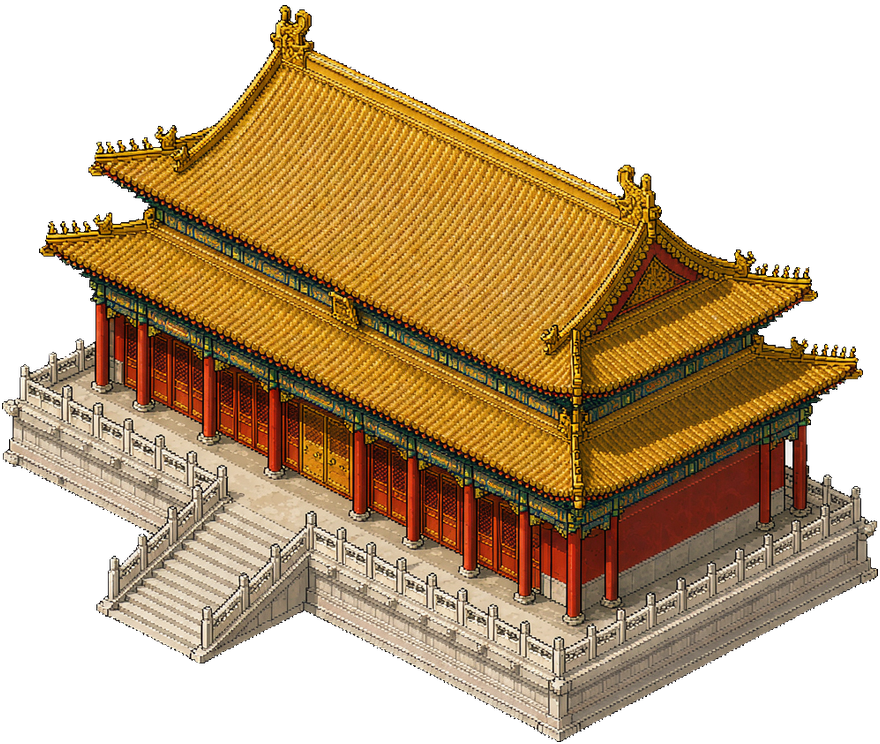
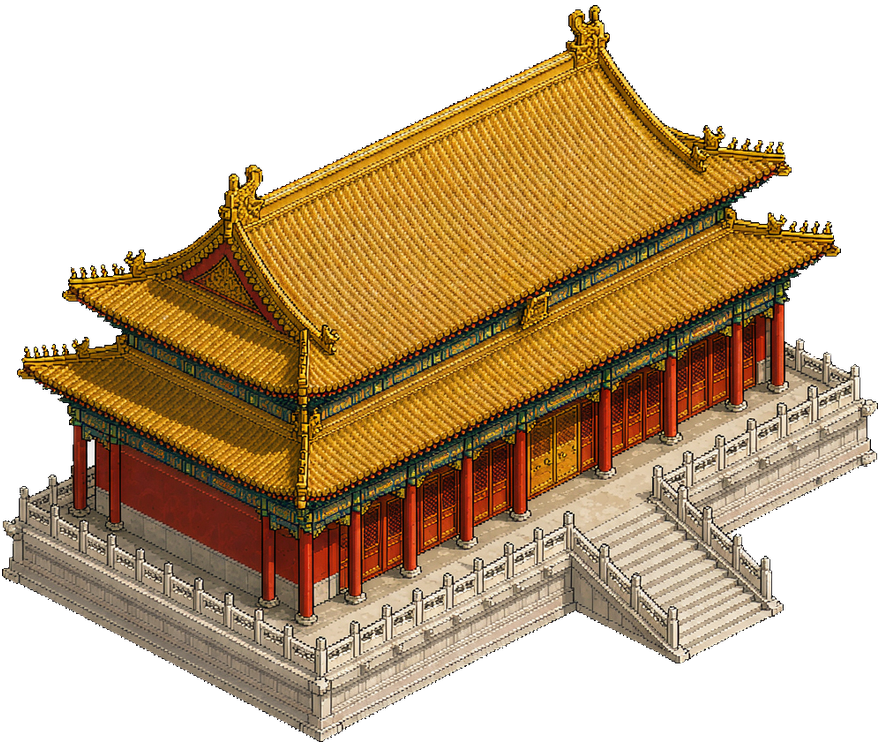
feat(art): 全城建筑正面换向 SW→SE（参考 AI 样例视角）
- 原位镜像：gate_keep / palace_hall / palace_hall_s / palace_gate /
  palace_corner / pagoda / gate_arch / city_wall_corner（正面朝右下）
- 镜像+u/v互换：city_wall 与 palace_wall 的 u2<->v2、u6<->v6
  （水平镜像把 v 向线段变为 u 向，锚点 ax 取反自动吻合）
- iso.ts 锚点同步：gate_keep ax 45->-45、palace_gate 32->-32、pagoda ±0.5
- 新增工具 assets_src/tools/modv2/flip_facing.py（--dry 支持）
- 回归 75/75、build 通过、_diag_restyle 全部玩法点 OK

diff --git a/shanhai/src/core/iso.ts b/shanhai/src/core/iso.ts
@@ -206,17 +206,17 @@ export const ISO_ANCHOR_OFFSET: Record<string, { ax: number; ay: number }> = {
   // 7×7 鼓楼：anchor_px [229,602] - (spriteW/2, spriteH) = (0, -4)，画布底比足迹前底顶点低 4px
   bell_tower: { ax: 0, ay: -4 },
   // —— 宫城族（palace.py 烘焙，ax = anchor_px.x - spriteW/2, ay = anchor_px.y - spriteH）——
-  palace_hall: { ax: 0, ay: -2 },         // 880×551, anchor [440,549]（故宫太和殿版 10×10）
+  palace_hall: { ax: 0, ay: -2 },         // 880×744, anchor [440,742]（故宫太和殿版 10×10）
   palace_hall_s: { ax: 0, ay: -19 },      // 324×453, anchor [162,434]
-  palace_gate: { ax: 32, ay: -5 },        // 206×426, anchor [135,421]
+  palace_gate: { ax: -32, ay: -5 },       // 206×426, anchor [71,421]
   palace_corner: { ax: 0, ay: -5 },       // 142×422, anchor [71,417]
   palace_wall_u6: { ax: 64, ay: -5 },     // 256×275, anchor [192,270]
   palace_wall_u2: { ax: 0, ay: -5 },      // 128×211, anchor [64,206]
   palace_wall_v2: { ax: 0, ay: -5 },      // 128×211, anchor [64,206]
   palace_wall_v6: { ax: -64, ay: -5 },    // 256×275, anchor [64,270]
-  pagoda: { ax: -0.5, ay: -21 },          // 267×756, anchor [133,735]
-  // 城台门楼（AI 素材 296×330）：城台底点偏 bbox 中心右侧 45px（6×3 菱形底点 (w-h)/2*32=48px 减 3px 余量）
-  gate_keep: { ax: 45, ay: -2 },          // anchor_px [193,328]
+  pagoda: { ax: 0.5, ay: -21 },           // 267×756, anchor [134,735]
+  // 城台门楼（AI 素材 296×330，正面朝右下/SE）：城台底点偏 bbox 中心左侧 45px
+  gate_keep: { ax: -45, ay: -2 },         // anchor_px [103,328]
 };
 
 export function isoSize(item: IsoItem): { w: number; h: number } {

diff --git a/shanhai/assets_src/tools/modv2/flip_facing.py b/shanhai/assets_src/tools/modv2/flip_facing.py
@@ -1,0 +1,104 @@
+# -*- coding: utf-8 -*-
+"""全城素材正面换向：SW（朝左下）→ SE（朝右下）。
+
+用户决策（2026-11-13）：参考 palace_hall_compare.png 右侧 AI 样例的视角，
+map_01 全部重建素材正面统一朝右下（SE）。
+
+原理：
+- 渲染层按文件名取图、无运行时翻转 → 翻转贴图本身即可换向；
+- Image.transpose(FLIP_LEFT_RIGHT) 无损，不重采样；
+- 水平镜像把「v 向线段」几何变成「u 向线段」，因此线段类贴图
+  镜像后 u/v 文件互换，锚点 ax 取反后自动吻合（u6 ax=64 ↔ v6 ax=-64）；
+- 近方足迹建筑原位镜像，ax 取反（镜像后 anchor_px.x' = W - x）。
+
+跳过：bridge（轴向绑定 3×5）、city_gate_tower/wide/wide_v 与 bell_tower
+（未在 map_01 上场）、house_4x4_*（已有四向贴图，逐向分配，无需换）、
+hall/hall_stone（未上场）、wild_*/角色（不属于城 building）。
+
+用法：python flip_facing.py [--dry]   # --dry 只打印计划
+"""
+import json
+import sys
+from pathlib import Path
+
+from PIL import Image
+
+ROOT = Path(__file__).resolve().parents[3]  # .../shanhai
+ISO = ROOT / "public" / "assets" / "art" / "iso"
+
+# 原位镜像：正面 SW→SE，footprint 近方/对称，anchor ax 取反
+MIRROR_IN_PLACE = [
+    "gate_keep",        # 6×3 城台门楼（AI）ax 45→-45
+    "palace_hall",      # 10×10 主殿（AI）ax 0
+    "palace_hall_s",    # 4×4 配殿 ax 0
+    "palace_gate",      # 4×2 宫门 ax 32→-32
+    "palace_corner",    # 2×2 角楼 ax 0
+    "pagoda",           # 3×3 白塔 ax -0.5→0.5
+    "gate_arch",        # 3×3 拱门（paifang 复用）ax 0
+]
+
+# 镜像 + u/v 文件互换：线段类，(new_u, new_v) = (mirror(old_v), mirror(old_u))
+MIRROR_SWAP_PAIRS = [
+    ("city_wall_u2", "city_wall_v2"),
+    ("city_wall_u6", "city_wall_v6"),
+    ("palace_wall_u2", "palace_wall_v2"),
+    ("palace_wall_u6", "palace_wall_v6"),
+]
+
+# 线段族内的角台/墩台：原位镜像（对称足迹，随同族换光照）
+MIRROR_IN_PLACE += ["city_wall_corner"]
+
+
+def mirror_png(name: str) -> None:
+    p = ISO / f"{name}.png"
+    img = Image.open(p)
+    if img.mode not in ("RGBA", "LA"):
+        img = img.convert("RGBA")
+    img.transpose(Image.FLIP_LEFT_RIGHT).save(p)
+    print(f"  mirrored {name}.png {img.size[0]}x{img.size[1]}")
+
+
+def update_json(name: str) -> None:
+    """同步模块元数据：anchor_px.x 取反、facing SW→SE。无 json 则跳过。"""
+    p = ISO / f"{name}.json"
+    if not p.exists():
+        return
+    data = json.loads(p.read_text(encoding="utf-8"))
+    w = data.get("sprite_size", [0, 0])[0]
+    ax_px = data.get("anchor_px")
+    if ax_px and w:
+        ax_px[0] = w - ax_px[0]
+        data["anchor_px"] = ax_px
+    if data.get("facing"):
+        data["facing"] = "SE"
+    data["mirror_derived"] = True
+    data["derive_op"] = (data.get("derive_op") or "") + " + flip_facing_sw2se"
+    p.write_text(json.dumps(data, indent=1, ensure_ascii=False), encoding="utf-8")
+    print(f"  json updated {name}.json anchor_px={data.get('anchor_px')}")
+
+
+def main() -> None:
+    dry = "--dry" in sys.argv
+    print("== 原位镜像（正面 SW→SE）==")
+    for name in MIRROR_IN_PLACE:
+        print(f"[{name}]")
+        if not dry:
+            mirror_png(name)
+        update_json(name)
+    print("== 镜像 + u/v 互换 ==")
+    for u, v in MIRROR_SWAP_PAIRS:
+        print(f"[{u} <-> {v}]")
+        if dry:
+            continue
+        pu, pv = ISO / f"{u}.png", ISO / f"{v}.png"
+        iu, iv = Image.open(pu).convert("RGBA"), Image.open(pv).convert("RGBA")
+        iu.transpose(Image.FLIP_LEFT_RIGHT).save(pv)
+        iv.transpose(Image.FLIP_LEFT_RIGHT).save(pu)
+        print(f"  swapped {u}.png <-> {v}.png (both mirrored)")
+        update_json(u)
+        update_json(v)
+    print("done")
+
+
+if __name__ == "__main__":
+    main()

diff --git a/.workbuddy/memory/2026-11-13.md b/.workbuddy/memory/2026-11-13.md
@@ -37,3 +37,12 @@
 - 落地：画布 880×744、anchor_px [440,742]、显示高 740px≈6.6×人物（比透视版 545px 更高更宏伟）；10×10 足迹/布局/iso.ts（ay 仍 -2）均不变，只改 PNG+JSON。
 - 留档：generated-images/palace_hall_taihe_persp_aligned.png（旧透视版）。
 - 验证：回归 75/75、build 通过；重启 5288 后 HTTP 确认返回 880×744 新图。宫城其余 4 件仍是旧程序化，批量待用户确认。
+
+## 按 map_01 参考图重建城防（22:35 后）
+- 用户给出新参考图 map_01（等距中式大城），要求按它重建云京，先做城门和城墙。
+- 拆解：城墙=朱红墙身+深灰垛口压顶+深色条石基座；城门=高大浅灰白石城台+朱红券洞+台顶深灰垛口+黄琉璃重檐门楼。
+- 城门：AI 生成 gate_keep（严格等距、正面朝左下），轮廓分析确认城台天然 6 宽×3 深（前脸/侧面跨度 2:1、左右角高差 (w-h)*16 吻合）→ 足迹 6×3（E/W 3×6），画布 296×330、anchor_px [193,328]、ISO_ANCHOR_OFFSET {ax:45, ay:-2}（菱形底点偏移 (w-h)/2*32=48→缩放后45）。新增 gateKeepLane（中央 4 格券洞）；城墙开口加宽到 x61..66 / y61..66（wallRun 东/南段 57→54）。gate_arch 类型保留（牌坊复用贴图），布局中不再使用。
+- 城墙：citybuild.py PARA_C 224,220,210→(86,84,80) 深灰、PARA_S(58,56,54)、STONE 改 mix(IRON,DARK,0.22) 深条石；_local_build --apply 重出 8 件，尺寸锚点不变。
+- 验证：regression 75/75（断言改 gate_keep×4 / 券洞 4 格宽 / 边缘两列阻挡）、build 通过、_diag 全部玩法点可走 + A* 四门/环路连通。
+- 留档：generated-images/gate_keep_raw.png；对照图 _restyle_samples/gate_wall_check.png。5288 服务重启后 HTTP 确认新素材与 4 座 gate_keep。
+- 后续（用户未做范围确认）：宫墙/宫城配色按 map_01 金黄宫墙调整、民居街巷密度与水系对照参考图微调——等用户看效果后再继续。
